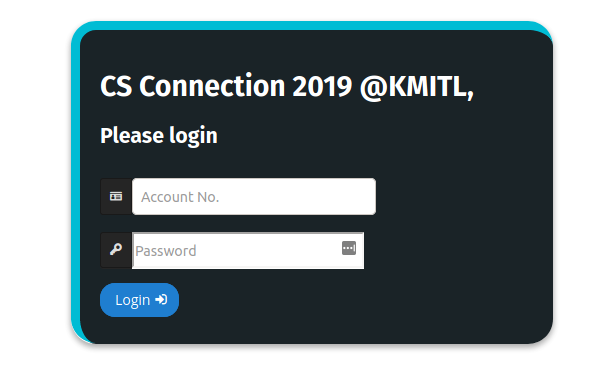
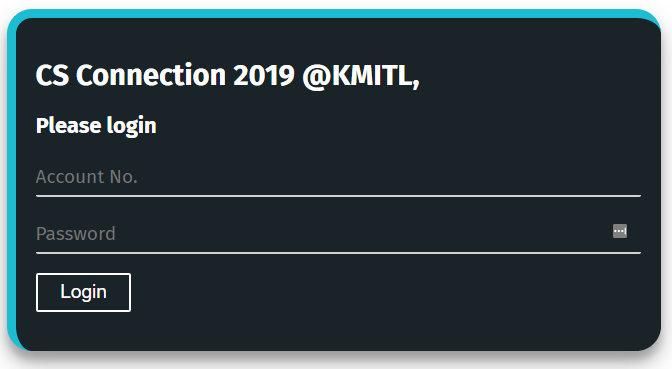
update style, screenshot

diff --git a/src/app/student/student.view.html b/src/app/student/student.view.html
@@ -1,5 +1,5 @@
 <!--  Login Page -->
-<div class="container" @myInsertRemoveTrigger *ngIf="!isLogin; else mainPage">
+<div *ngIf="!isLogin; else mainPage">
   <div class="card">
     <h1>CS Connection 2019 @KMITL,</h1>
     <h2>Please login</h2>
@@ -7,10 +7,9 @@
     <br>
     <br>
     <input placeholder="Password" [(ngModel)]="userPassword" type="password" (keydown.enter)="onLogin()">
-    <div style="margin: 1em 2em 1em 0;">
-      <p [style.color]="msgSeverity === 'error' ? 'red' : 'green'" class="msg">{{msg}}</p>
-    </div>
-    <a class="button1" (click)="onLogin()">Login</a>
+    <a class="button1" style="margin: 1em 2em 1em 0;" (click)="onLogin()">Login</a>
+    <span [style.color]="msgSeverity === 'error' ? 'red' : 'green'">{{msg}}</span>
+
   </div>
 </div>
 
@@ -25,21 +24,17 @@
         ลงชื่อเข้างาน
       </a>
       <!-- <a class="card-btn color-2" href="#unattend" (click)="unattendEvent()">
-        ลงชื่อออกงาน
-      </a> -->
-    </div>
-    <div style="text-align: center; margin: 1em 0em 1em 0;">
-      <p [style.color]="msgSeverity === 'error' ? 'red' : 'green'" class="msg">{{msg}}</p>
+            ลงชื่อออกงาน
+          </a> -->
     </div>
 
-    <div style="text-align: center; margin-top: 3rem;;">
+    <div style="text-align: center;">
       <H2>จำนวนผู้ร่วมงาน : </H2>
       <H1 style="color: #f0a51a;">{{showAttendants()}}</H1>
     </div>
 
-    <div style="bottom: 25px; position: absolute; ">
-      <a class="button1" (click)="onLogout()">Logout</a>
-    </div>
+    <a class="button1" style="margin: 1em 2em 1em 0;" (click)="onLogout()">Logout</a>
+    <span [style.color]="msgSeverity === 'error' ? 'red' : 'green'">{{msg}}</span>
   </div>
 
 </ng-template>

diff --git a/src/styles.css b/src/styles.css
@@ -4,6 +4,15 @@ html {
     font-size: calc(0.7em + 0.5vw)
 }
 
+body {
+    font-family: 'Fira Sans', sans-serif;
+    color: #fff;
+    background-color: #ffffff;
+    margin: 0;
+    width: 100%;
+    height: 100vh;
+}
+
 a.button1 {
     font-size: 1.3rem;
     display: inline-block;
@@ -54,32 +63,20 @@ ui-button {
     font-size: inherit
 }
 
-body {
-    font-family: 'Fira Sans', sans-serif;
-    color: #fff;
-    background-color: rgb(255, 255, 255);
-}
-
 .container {
     display: flex;
+    flex-direction: column;
     justify-content: center;
     max-width: 960px;
+    height: 100vh;
     margin: auto;
-}
-
-.msg {
-    font-size: 2em;
 }
 
 .card {
     background: #1a2327;
     border-radius: 2px;
-    display: inline-block;
-    height: 90vh;
-    margin: 1rem;
-    position: relative;
-    width: 100%;
     padding: 20px;
+    margin: 0 1em;
     box-shadow: 0 3px 6px rgba(0, 0, 0, 0.16), 0 3px 6px rgba(0, 0, 0, 0.23);
     border-radius: 25px;
     transition: all .4s ease-in-out;

diff --git a/src/app/student/student.controller.ts b/src/app/student/student.controller.ts
@@ -1,21 +1,9 @@
 import { Component, OnInit } from '@angular/core';
 import { Student, StudentModel } from './student.model';
-import { trigger, transition, style, animate } from '@angular/animations';
 
 @Component({
   selector: 'app-student',
-  templateUrl: './student.view.html',
-  animations: [
-    trigger('myInsertRemoveTrigger', [
-      transition(':enter', [
-        style({ opacity: 0 }),
-        animate('400ms', style({ opacity: 1 })),
-      ]),
-      transition(':leave', [
-        animate('400ms', style({ opacity: 0 }))
-      ])
-    ]),
-  ]
+  templateUrl: './student.view.html'
 })
 export class StudentController implements OnInit {
   user: Student = null;

diff --git a/src/index.html b/src/index.html
@@ -10,7 +10,9 @@
 </head>
 
 <body>
+  <div class="container">
     <app-student></app-student>
+  </div>
 </body>
 
 </html>
